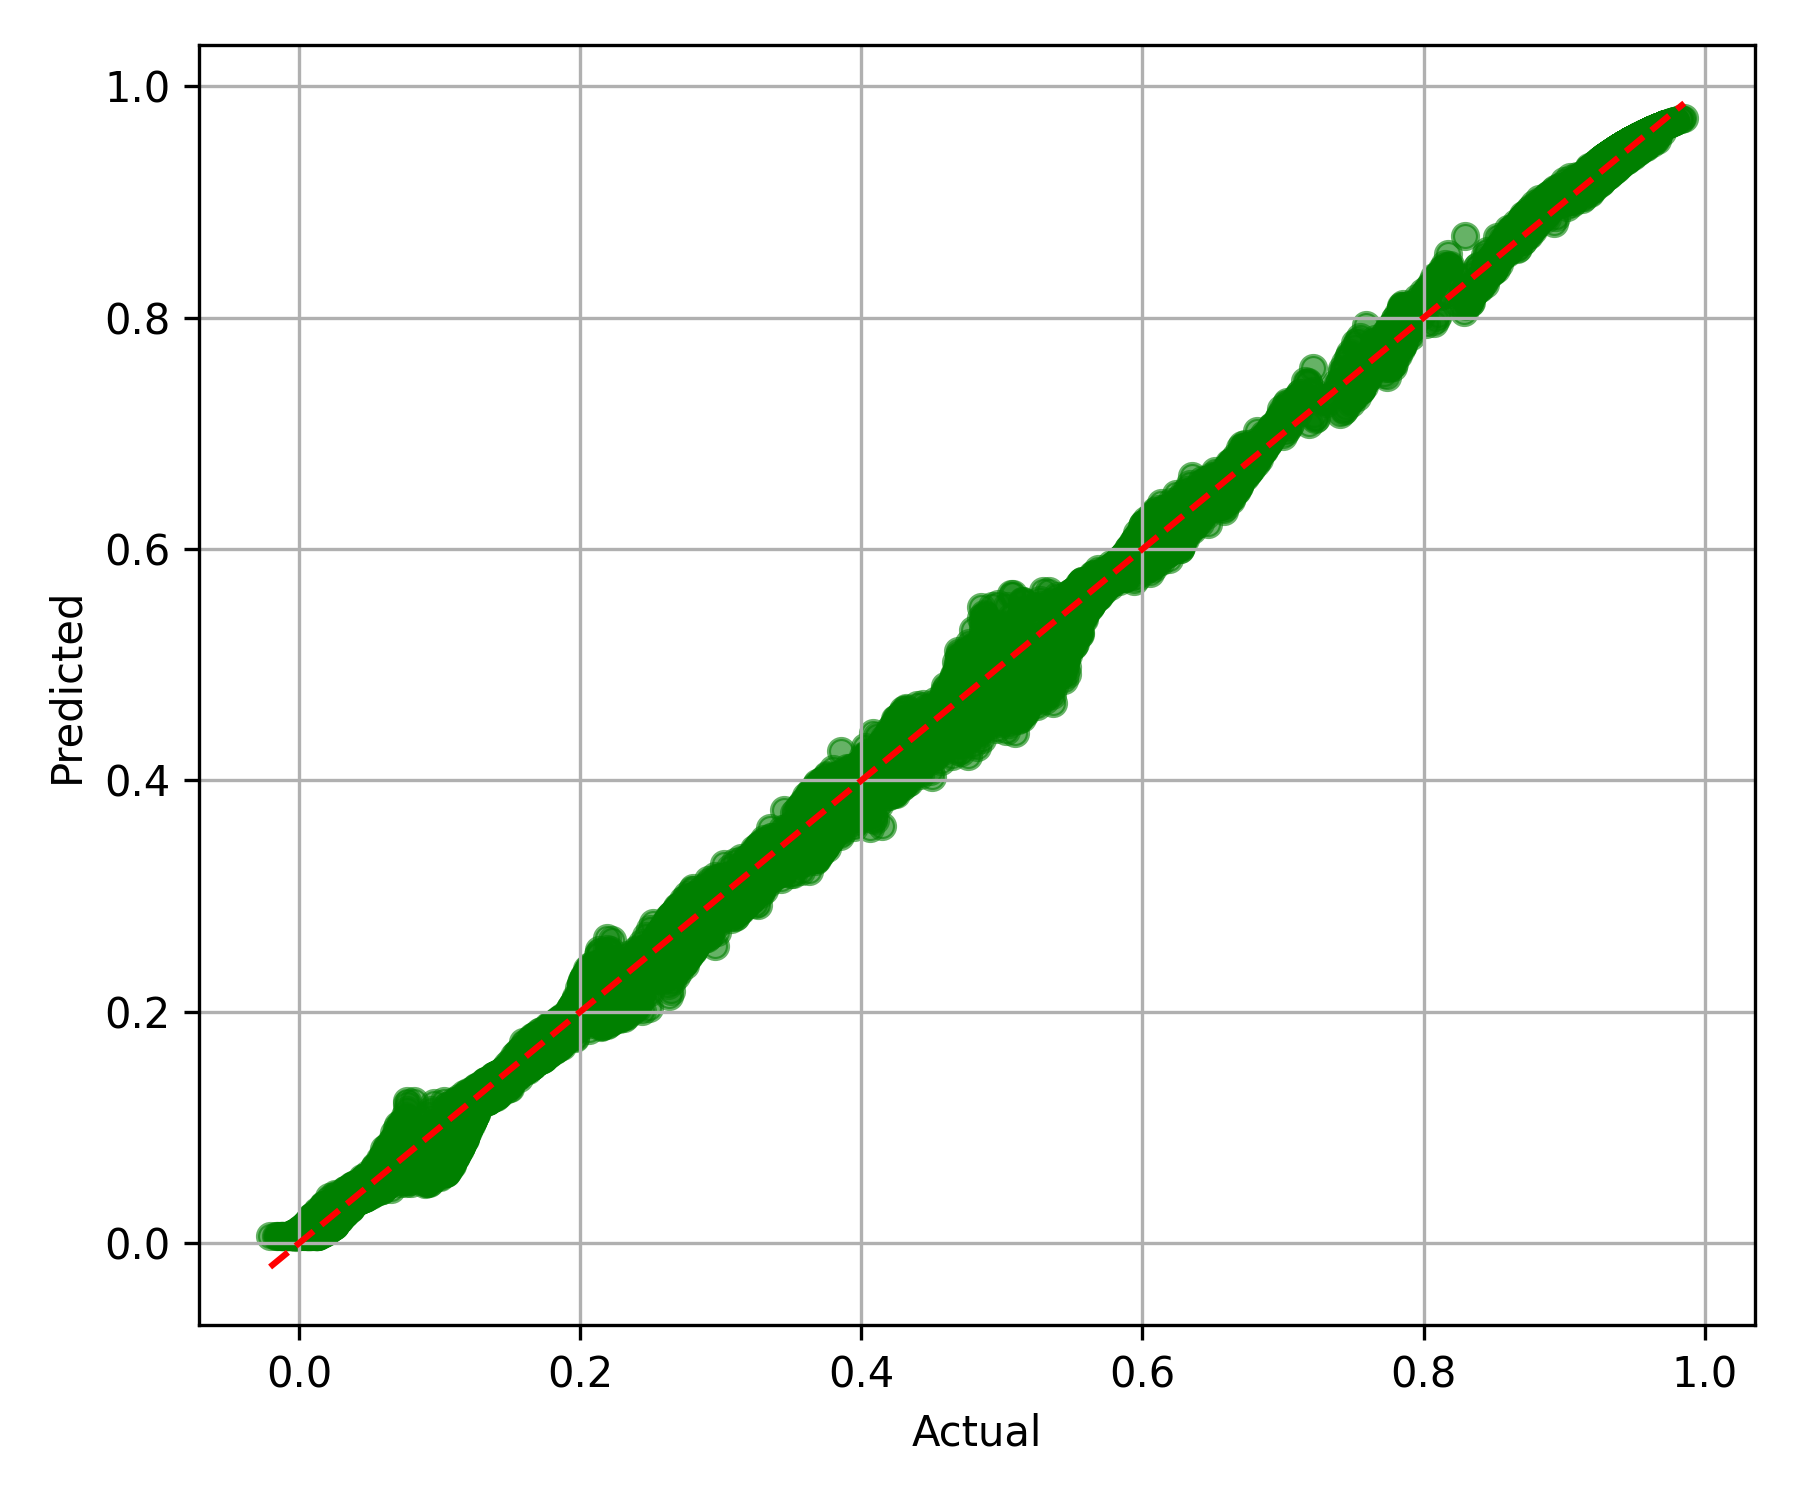
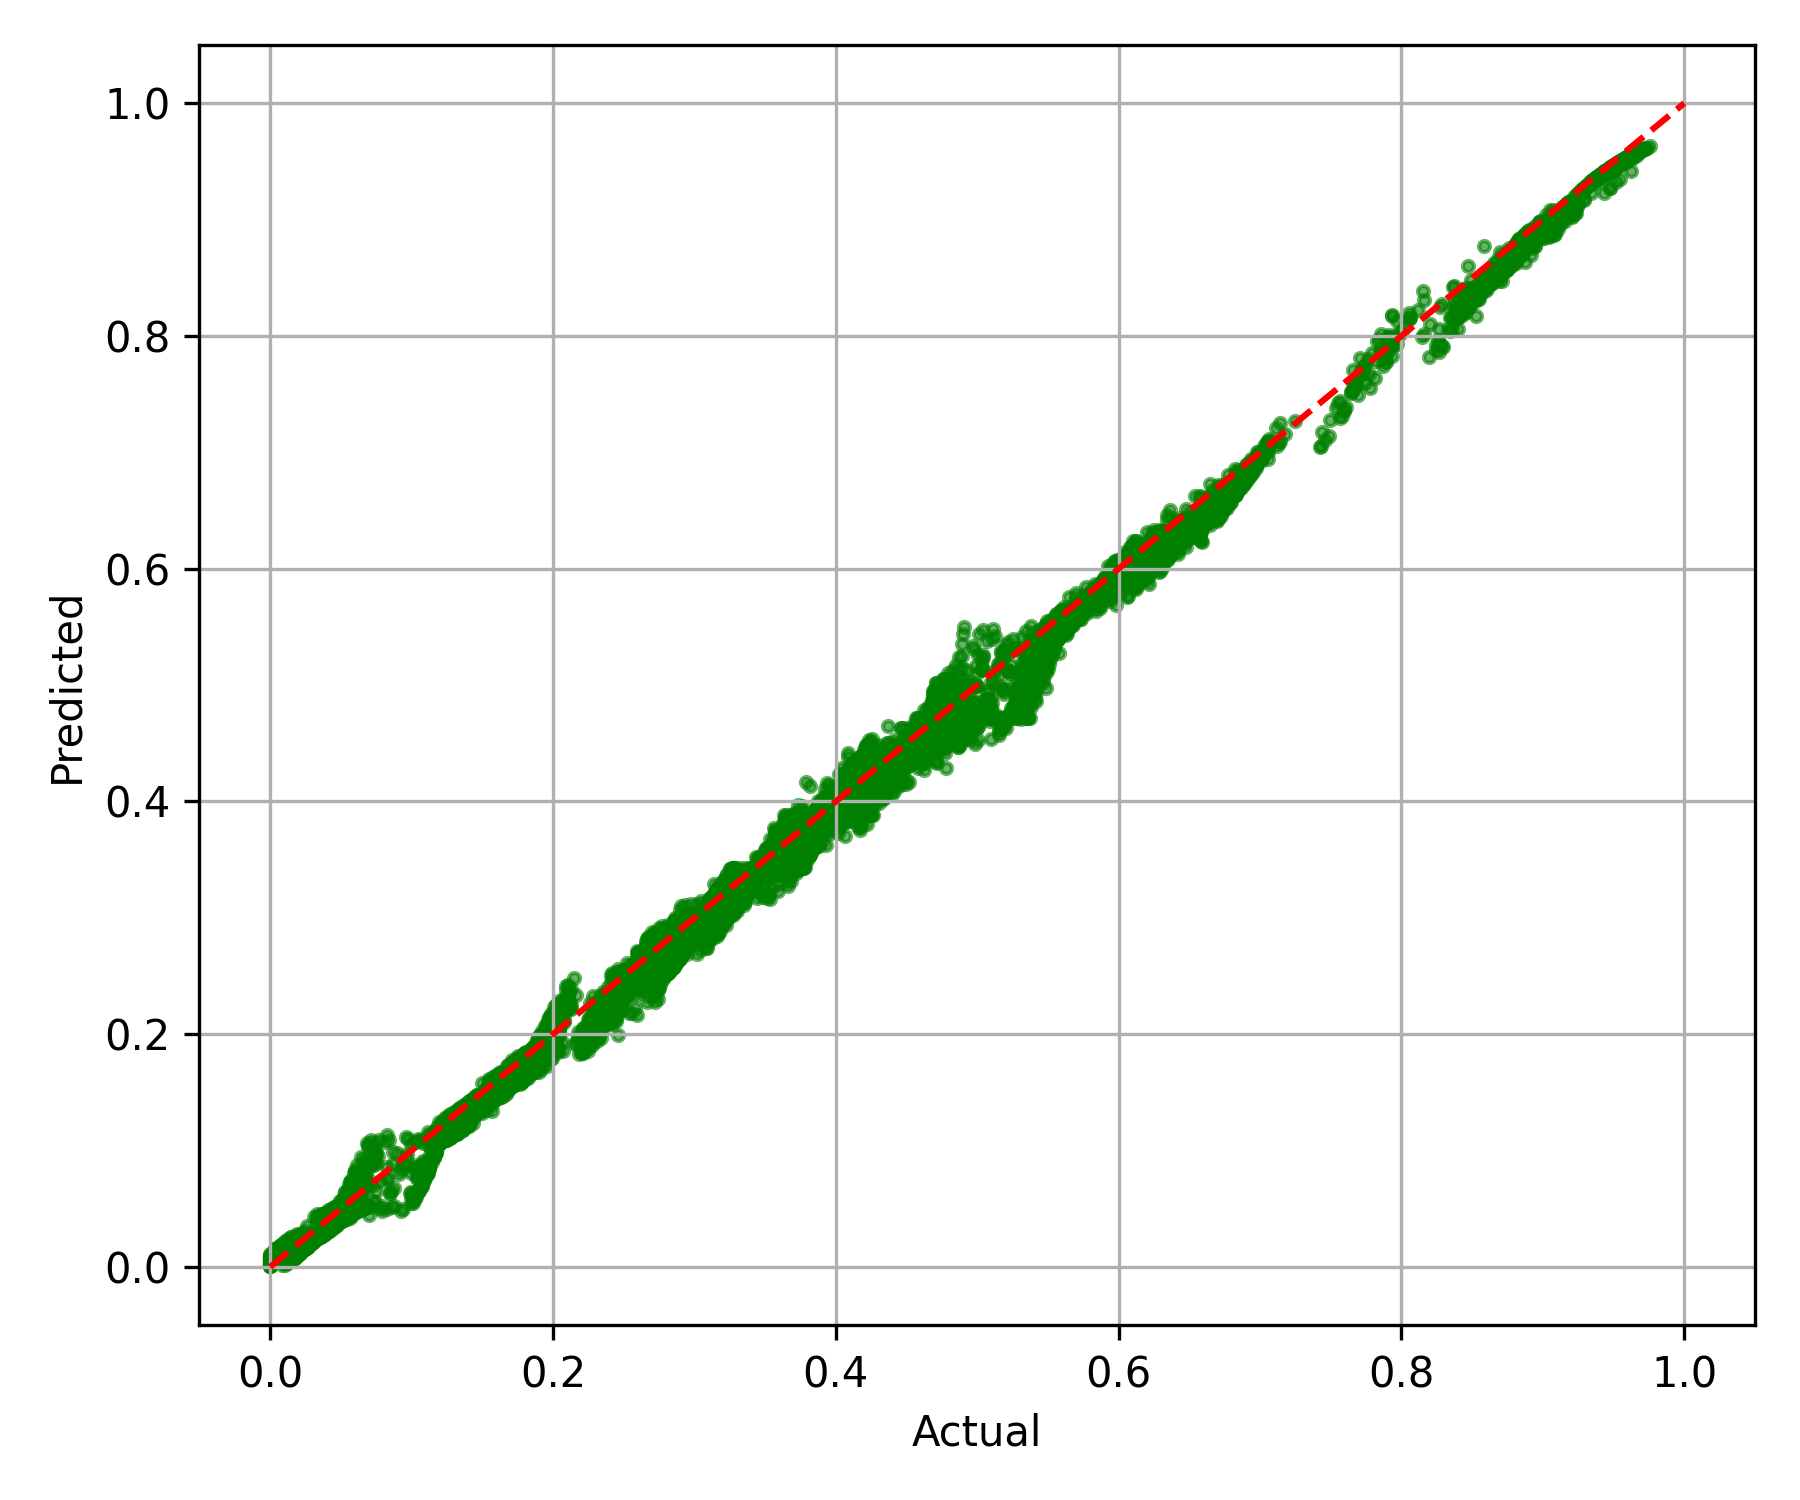
Fix parity plots: clip at plot time, fixed reference line, smaller markers
For all active parity scatter plots (CASE-A/test006 Killough and Carlson):
- Clip y_test/y_val/y_pred to [0,1] only for plotting (metrics unchanged)
- Replace data-driven reference line with fixed plt.plot([0,1],[0,1],'r--')
- Reduce marker size to s=7 for readability

diff --git a/ml-simulations/espen_hyst_model/boilerhyst/CASE-A/test006/killough-data_vs_ML-Killough.py b/ml-simulations/espen_hyst_model/boilerhyst/CASE-A/test006/killough-data_vs_ML-Killough.py
@@ -209,8 +209,9 @@ if __name__ == "__main__":
     # 1) Test parity plot (single PNG)
     # -----------------------------
     plt.figure(figsize=(6, 5))
-    plt.scatter(y_test, y_pred_test, alpha=0.6, color='green')
-    plt.plot([y_test.min(), y_test.max()], [y_test.min(), y_test.max()], 'r--')
+    _yt, _yp = np.clip(y_test, 0, 1), np.clip(y_pred_test, 0, 1)
+    plt.scatter(_yt, _yp, alpha=0.6, color='green', s=7)
+    plt.plot([0, 1], [0, 1], 'r--')
     # plt.title('Test Set: Actual vs Predicted')
     plt.xlabel('Actual'); plt.ylabel('Predicted'); plt.grid(True)
     plt.tight_layout()
@@ -268,8 +269,9 @@ if __name__ == "__main__":
     # 3) Validation parity plot (single PNG)
     # -----------------------------
     plt.figure(figsize=(6, 5))
-    plt.scatter(y_val, y_pred_val, alpha=0.6, color='purple')
-    plt.plot([y_val.min(), y_val.max()], [y_val.min(), y_val.max()], 'r--')
+    _yv, _yvp = np.clip(y_val, 0, 1), np.clip(y_pred_val, 0, 1)
+    plt.scatter(_yv, _yvp, alpha=0.6, color='purple', s=7)
+    plt.plot([0, 1], [0, 1], 'r--')
     # plt.title('Validation Set: Actual vs Predicted')
     plt.xlabel('Actual'); plt.ylabel('Predicted'); plt.grid(True)
     plt.tight_layout()

diff --git a/ml-simulations/espen_hyst_model/boilerhyst/CASE-A/test006/killough-data_vs_ML-Carlson.py b/ml-simulations/espen_hyst_model/boilerhyst/CASE-A/test006/killough-data_vs_ML-Carlson.py
@@ -191,8 +191,9 @@ if __name__ == "__main__":
 
     # 1) Test parity plot (single PNG)
     plt.figure(figsize=(6, 5))
-    plt.scatter(y_test, y_pred_test, alpha=0.6, color='green')
-    plt.plot([y_test.min(), y_test.max()], [y_test.min(), y_test.max()], 'r--')
+    _yt, _yp = np.clip(y_test, 0, 1), np.clip(y_pred_test, 0, 1)
+    plt.scatter(_yt, _yp, alpha=0.6, color='green', s=7)
+    plt.plot([0, 1], [0, 1], 'r--')
     # plt.title('Test Set: Actual vs Predicted')
     plt.xlabel('Actual'); plt.ylabel('Predicted'); plt.grid(True)
     plt.tight_layout()
@@ -244,8 +245,9 @@ if __name__ == "__main__":
 
     # 3) Validation parity plot (single PNG)
     plt.figure(figsize=(6, 5))
-    plt.scatter(y_val, y_pred_val, alpha=0.6, color='purple')
-    plt.plot([y_val.min(), y_val.max()], [y_val.min(), y_val.max()], 'r--')
+    _yv, _yvp = np.clip(y_val, 0, 1), np.clip(y_pred_val, 0, 1)
+    plt.scatter(_yv, _yvp, alpha=0.6, color='purple', s=7)
+    plt.plot([0, 1], [0, 1], 'r--')
     # plt.title('Validation Set: Actual vs Predicted')
     plt.xlabel('Actual'); plt.ylabel('Predicted'); plt.grid(True)
     plt.tight_layout()

diff --git a/ml-simulations/espen_hyst_model/boilerhyst/CASE-A/test006/killough-data_vs_ML-CarlsontrainImbib.py b/ml-simulations/espen_hyst_model/boilerhyst/CASE-A/test006/killough-data_vs_ML-CarlsontrainImbib.py
@@ -208,8 +208,9 @@ if __name__ == "__main__":
 
     # 1) Test parity plot (single PNG)
     plt.figure(figsize=(6, 5))
-    plt.scatter(y_test, y_pred_test, alpha=0.6, color='green')
-    plt.plot([y_test.min(), y_test.max()], [y_test.min(), y_test.max()], 'r--')
+    _yt, _yp = np.clip(y_test, 0, 1), np.clip(y_pred_test, 0, 1)
+    plt.scatter(_yt, _yp, alpha=0.6, color='green', s=7)
+    plt.plot([0, 1], [0, 1], 'r--')
     plt.title('Test Set: Actual vs Predicted')
     plt.xlabel('Actual'); plt.ylabel('Predicted'); plt.grid(True)
     plt.tight_layout()
@@ -261,8 +262,9 @@ if __name__ == "__main__":
 
     # 3) Validation parity plot (single PNG)
     plt.figure(figsize=(6, 5))
-    plt.scatter(y_val, y_pred_val, alpha=0.6, color='purple')
-    plt.plot([y_val.min(), y_val.max()], [y_val.min(), y_val.max()], 'r--')
+    _yv, _yvp = np.clip(y_val, 0, 1), np.clip(y_pred_val, 0, 1)
+    plt.scatter(_yv, _yvp, alpha=0.6, color='purple', s=7)
+    plt.plot([0, 1], [0, 1], 'r--')
     plt.title('Validation Set: Actual vs Predicted')
     plt.xlabel('Actual'); plt.ylabel('Predicted'); plt.grid(True)
     plt.tight_layout()
